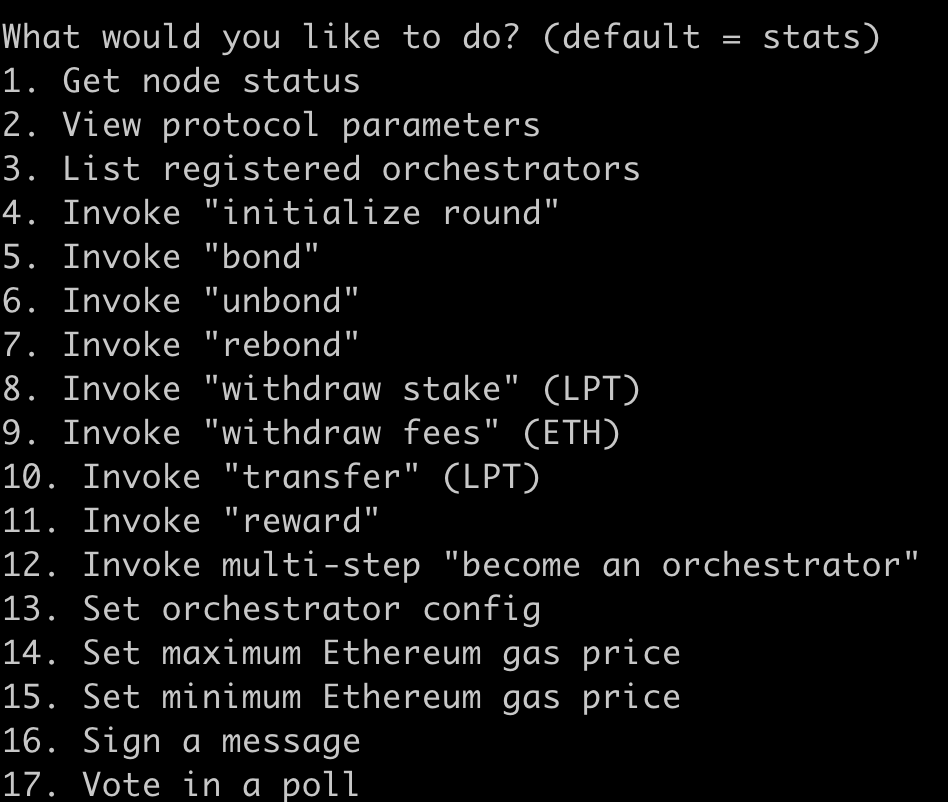
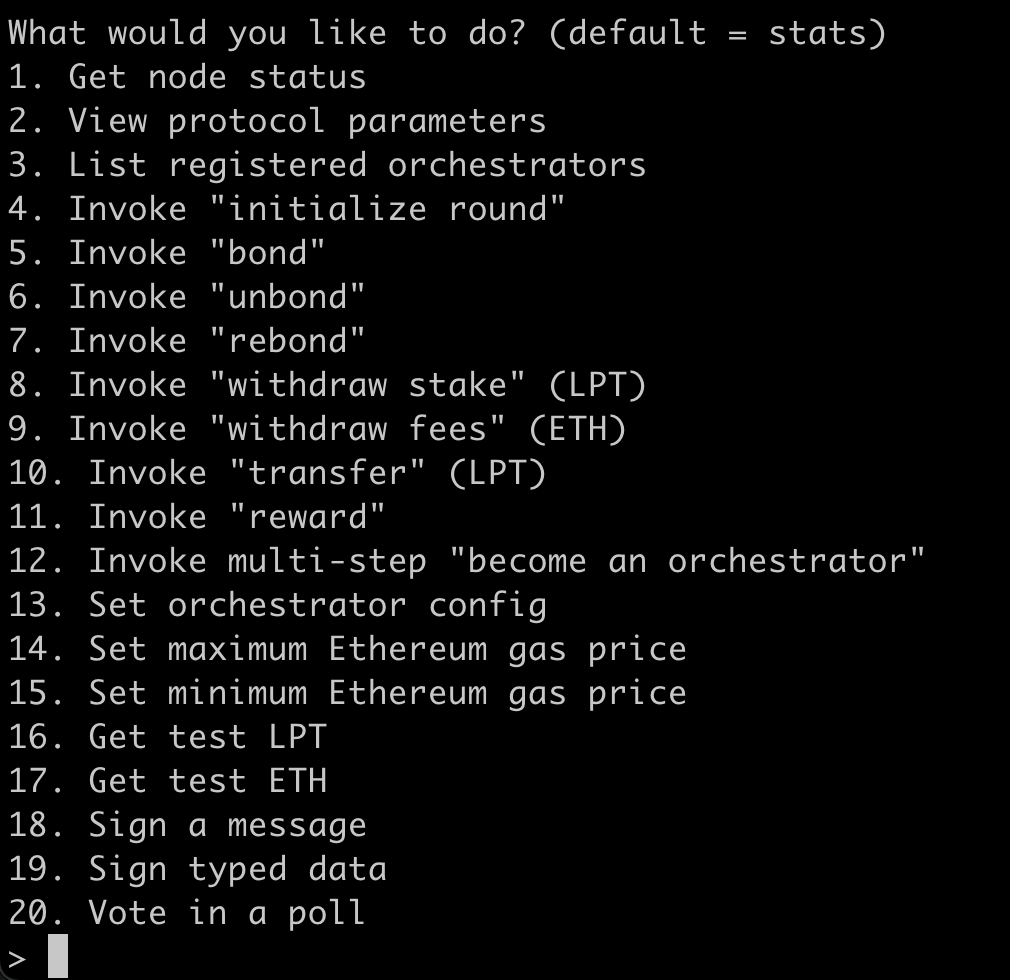
address adam's comments

Changed region(s): [[0.0, 0.0, 0.9483, 1.0], [0.6118, 0.7793, 0.7342, 0.904], [0.7648, 0.0, 0.9483, 0.0623]]

diff --git a/docs/video-miners/how-to-guides/l2-migration.md b/docs/video-miners/how-to-guides/l2-migration.md
@@ -32,7 +32,7 @@ Other options are: [use the Offchain Labs public endpoint](https://developer.off
 
     Navigate to the [testnet explorer](http://rinkeby.explorer.livepeer.org) or [mainnet explorer](http://explorer.livepeer.org). If you have not connected a wallet, connect on using the prompt in the upper left hand corner. 
     
-    This does not have to be the same wallet you use for your orchestrator, but **if you are using a different wallet to submit the transaction, you will still need to access the wallet that you use for your orchestrator so that you can sign a message**
+    This does not have to be the same wallet you use for your orchestrator, but **if you are using a different wallet to submit the transaction, you will still need to access the wallet that you use for your orchestrator so that you can sign a typed data message**
      
     <img src="/docs-assets/video-miners/how-to-guides/connect-wallet.png" alt="connect wallet to livepeer" width="300"/>
     
@@ -60,7 +60,7 @@ Other options are: [use the Offchain Labs public endpoint](https://developer.off
     
     3b. **Sign using CLI**
     
-    If you'd rather sign a message through the CLI, select "Sign using CLI" in the explorer interface. You'll be taken to an alternate migration screen, where you will be asked to enter the public address of the orchestrator you wish to migrate
+    If you'd rather sign a typed data message through the CLI, select "Sign using CLI" in the explorer interface. You'll be taken to an alternate migration screen, where you will be asked to enter the public address of the orchestrator you wish to migrate
     
     <img src="/docs-assets/video-miners/how-to-guides/sign-cli.png" alt="sign cli" width="300"/>
     
